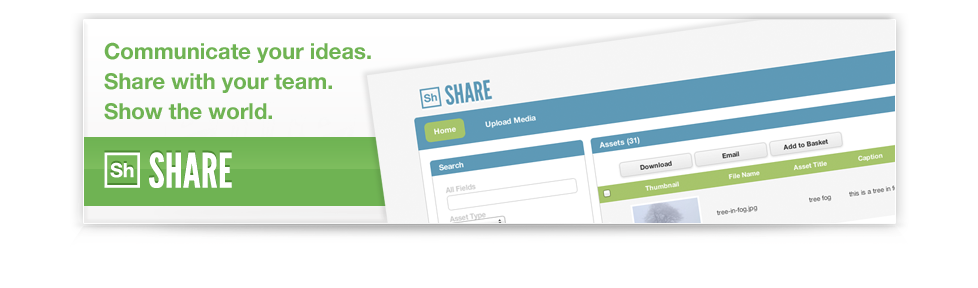
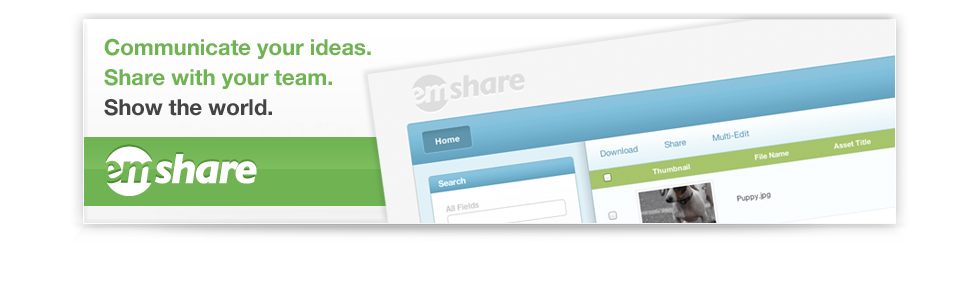
image switch out and theme updates

diff --git a/webapp/theme/styles/theme.css b/webapp/theme/styles/theme.css
@@ -550,11 +550,13 @@ header {
 	z-index: 100;
 }
 .lgpl {
-	background: url('../images/opensource.jpg') left 8px no-repeat;
+	background: url('../images/opensource.jpg') left -10px no-repeat;
 	width: 60px;
 	height: 68px;
 	float: left;
-	padding: 20px 15px 0 0;
+	padding: 0 15px 0 0;
+	position: relative;
+	top: -10px;
 }
 
 /* PLANS & PRICING */
